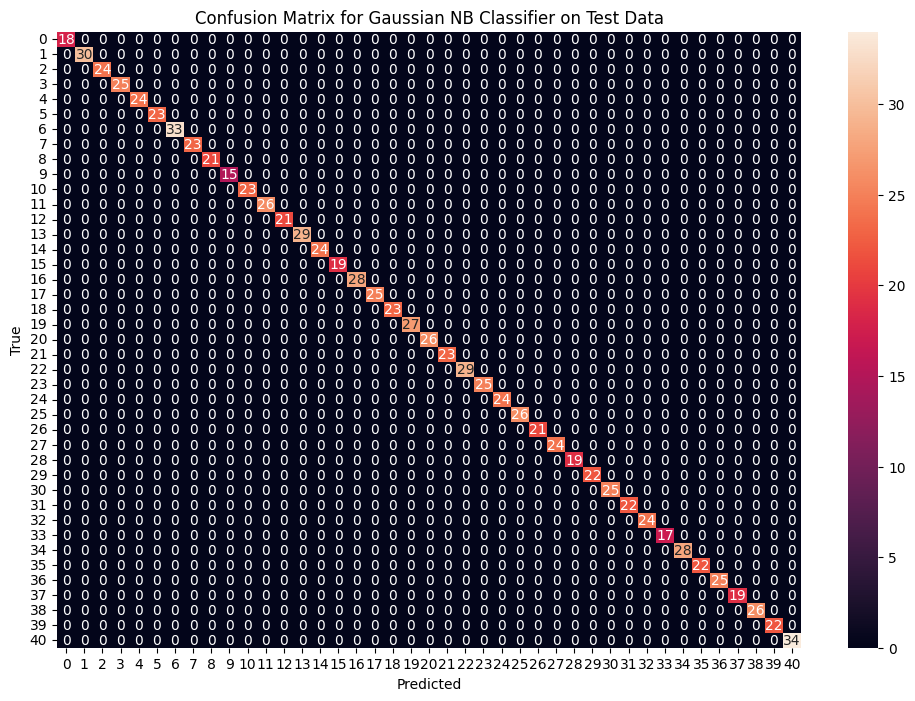
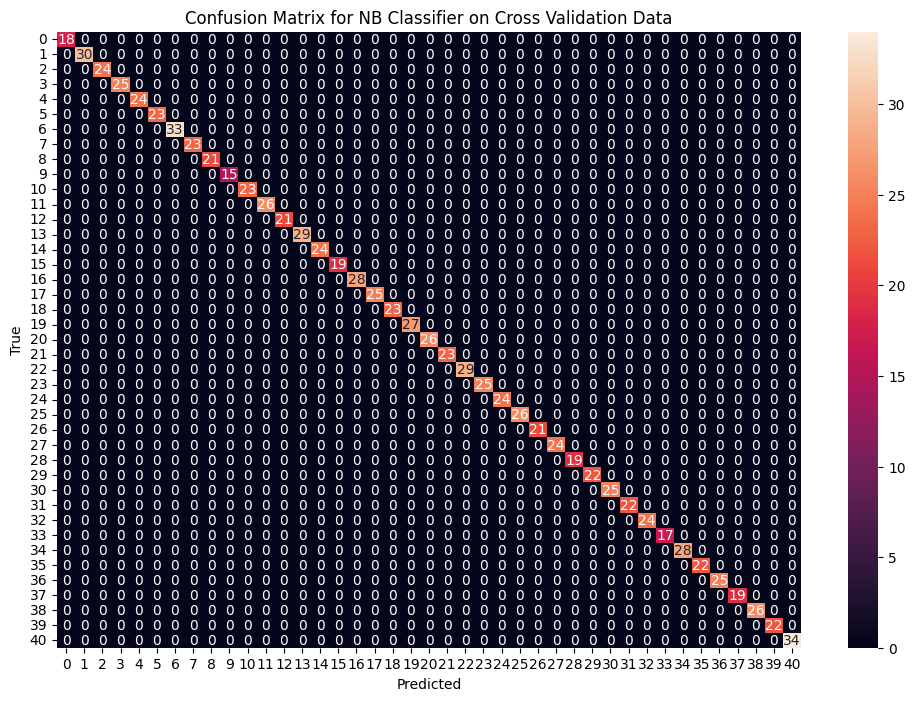
readme

Changed region(s): [[0.2142, 0.0, 0.7344, 0.0599]]

diff --git a/main_jupter.py b/main_jupter.py
@@ -58,9 +58,9 @@ def cv_scoring(estimator, X, y):
 
 # Initializing Models
 models = {
-	"SVC": SVC(),
-	"Gaussian NB": GaussianNB(),
-	"Random Forest": RandomForestClassifier(random_state=18)
+	"SV": SVC(),
+	"NB": GaussianNB(),
+	"RF": RandomForestClassifier(random_state=18)
 }
 
 # Producing cross validation score for the models
@@ -92,7 +92,7 @@ def printresults(model,X_train,y_train,y_cv,preds,model_name):
 
 	plt.figure(figsize=(12,8))
 	sns.heatmap(cf_matrix, annot=True)
-	plt.title(f"Confusion Matrix for {model_name} Classifier on Test Data")
+	plt.title(f"Confusion Matrix for {model_name} Classifier on Cross Validation Data")
 	plt.xlabel("Predicted")
 	plt.ylabel("True")
 	plt.show()

diff --git a/README.md b/README.md
@@ -1,2 +1,130 @@
-# ML_Disease_Prediction
-ML Disease Prediction
+# Machine Learning - Disease Prediction
+
+## Objective
+
+This script aims to implement a robust machine-learning model using the [scikit-learn](https://scikit-learn.org/stable/) library that can efficiently predict the disease of a human, based on the symptoms that he/she possesses. 
+
+## Introduction and Methods
+
+### **The Data**
+
+**Gathering:** The idea of this project came from a Kaggle problem (https://www.kaggle.com/datasets/kaushil268/disease-prediction-using-machine-learning). Therefore, I used the dataset from this problem. This dataset consists of two CSV files one for training and one for testing. There is a total of 133 columns in the dataset out of which 132 columns represent the symptoms and the last column is the prognosis.
+
+**Cleaning:** After acquiring and observing the dataset, I noticed that all the columns' symptoms have binary information (the subject has or hasn’t the symptom), and the target column i.e. prognosis is a string type. To clean the data, I excluded any empty columns and encoded the target column to numerical form using a [label encoder](https://scikit-learn.org/stable/modules/generated/sklearn.preprocessing.LabelEncoder.html).
+
+```python
+data = pd.read_csv(TRAIN_PATH).dropna(axis = 1)
+encoder = LabelEncoder()
+data["prognosis"] = encoder.fit_transform(data["prognosis"])
+```
+
+### The Models
+
+For this project, I used this cleaned data to train the **Support Vector Classifier (SV)**, **Naive Bayes Classifier (NB)**, and **Random Forest Classifier (RF)**. To implement the models I used the [sklearn](https://scikit-learn.org/stable/) library. Then, I used *confusion matrices* to determine the quality of the models. To improve the robustness and accuracy of the overall prediction, after training the three models, I predicted the disease for the input symptoms by combining the predictions of all three models. The combined model gives as a result the most frequent answer of the three models.
+
+## Results
+
+### **Reading the dataset**
+
+Whenever solving a classification task it is necessary to check whether the target column is balanced or not. For that, I used a bar plot to check it. From Figure 1, we can observe that the dataset is a balanced dataset i.e. there are exactly 120 samples for each disease, and no further balancing is required.
+
+![Figure 1. The number of entries for each disease (the target). ](https://raw.githubusercontent.com/LexC/ML_Disease_Prediction/main/outputs/databalance.png)
+
+Figure 1. The number of entries for each disease (the target). 
+
+### **K-Fold Cross-Validation**
+
+After splitting the data training the data into 80:20 format, I used K-Fold cross-validation to evaluate the proposed machine-learning models (SV, NB, and RF). The implemented function for the K-Fold cross-validation was *[sklearn.model_selection.cross_val_score](https://scikit-learn.org/stable/modules/generated/sklearn.model_selection.cross_val_score.html)*, as shown in the code bellow:
+
+```python
+from sklearn.model_selection import cross_val_score
+
+cv = ShuffleSplit(n_splits=10, test_size=0.2, random_state=42)
+for i,model_name in enumerate(models):
+    model = models[model_name]
+    scores = **cross_val_score**(model, X, y, cv = cv, 
+                                                        n_jobs = -1, 
+                            scoring = cv_scoring)
+```
+
+The mean estimated accuracy score after k-fold cross-validation for all proposed machine-learning models was $100\% \pm 0$. 
+
+### Training Models
+
+The next step was to plot a confusion matrix for each model and check the accuracy with the 20% of cross-validation data. 
+
+```python
+def runmodel(model,X_train,X_cv,y_train,y_cv,model_name):
+    model.fit(X_train, y_train)
+    preds = model.predict(X_cv)
+    printresults(model,X_train,y_train,y_cv,preds,model_name)
+
+models = {"SVC": SVC(),
+    "Gaussian NB": GaussianNB(),
+    "Random Forest": RandomForestClassifier(random_state=18)}
+
+for model_name in models:
+    print('=='*30)
+    runmodel(models[model_name],X_train,X_cv,y_train,y_cv,model_name)
+```
+
+![Figure 2.](https://raw.githubusercontent.com/LexC/ML_Disease_Prediction/main/outputs/cm_cv_svc.png)
+
+Figure 2.
+
+```python
+============================================================
+Accuracy on train data by SV : 100.0
+Accuracy on test data by SV : 100.0
+```
+
+![Figure 3](https://raw.githubusercontent.com/LexC/ML_Disease_Prediction/main/outputs/cm_cv_nb.png)
+
+Figure 3
+
+```python
+============================================================
+Accuracy on train data by NB : 100.0
+Accuracy on test data by NB : 100.0
+```
+
+![Figure 4](https://raw.githubusercontent.com/LexC/ML_Disease_Prediction/main/outputs/cm_cv_rf.png)
+
+Figure 4
+
+```python
+============================================================
+Accuracy on train data by RF : 100.0
+Accuracy on test data by RF : 100.0
+```
+
+Figures 2, 3 and 4 and the accuracy of 100% show that the models are performing well on the unseen cross-validation data. Then, the last step is to combine the models and evaluate the accuracy in the testing dataset.
+
+### **Fitting the model and validating on the Test dataset**
+
+The code below shows how the models were combined. 
+
+```python
+from scipy.stats import mode
+
+final_models = {    "svm": SVC(),
+    "nb" : GaussianNB(),
+    "rf" : RandomForestClassifier(random_state=18)  }
+
+preds = {}
+for m in final_models.keys():
+    final_models[m].fit(X_train,y_train)
+    preds[m] = final_models[m].predict(X_test)
+
+final_preds = [mode([i,j,k]).mode for i,j,k in zip(preds['svm'], preds['nb'], preds['rf'])]
+```
+
+With the combined model, the resulting confusion matrix (figure 5) shows that all the data points were accurately classified.
+
+```python
+Accuracy on Test dataset by the combined model: 100.0
+```
+
+![Figure 5](https://raw.githubusercontent.com/LexC/ML_Disease_Prediction/main/outputs/cm_test_combined.png)
+
+Figure 5
